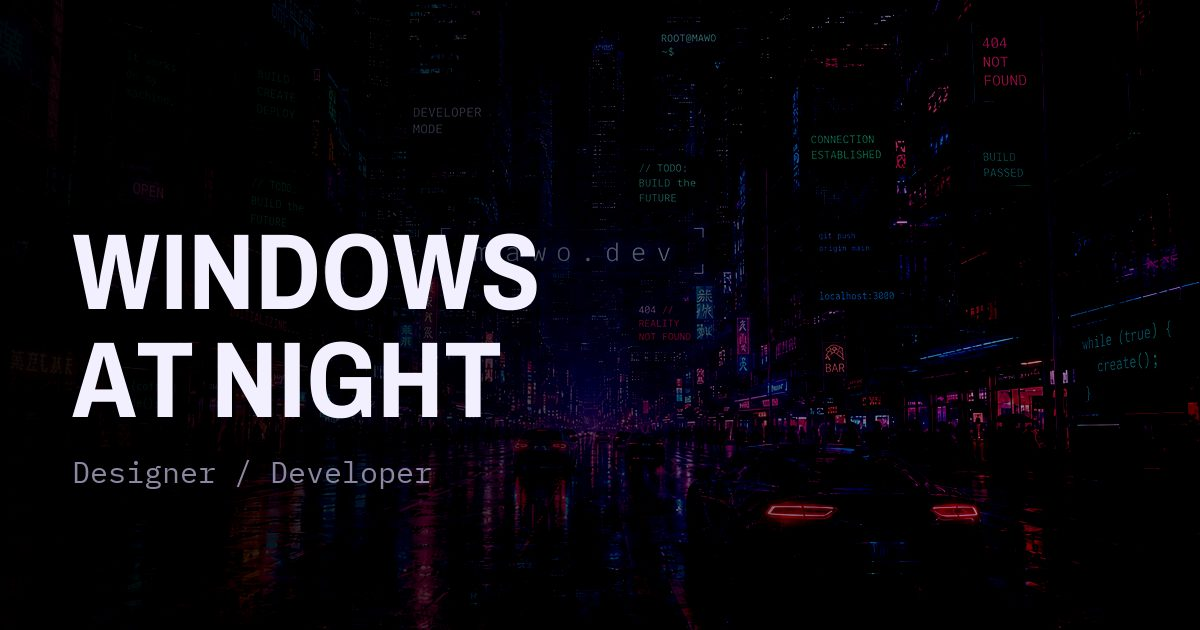
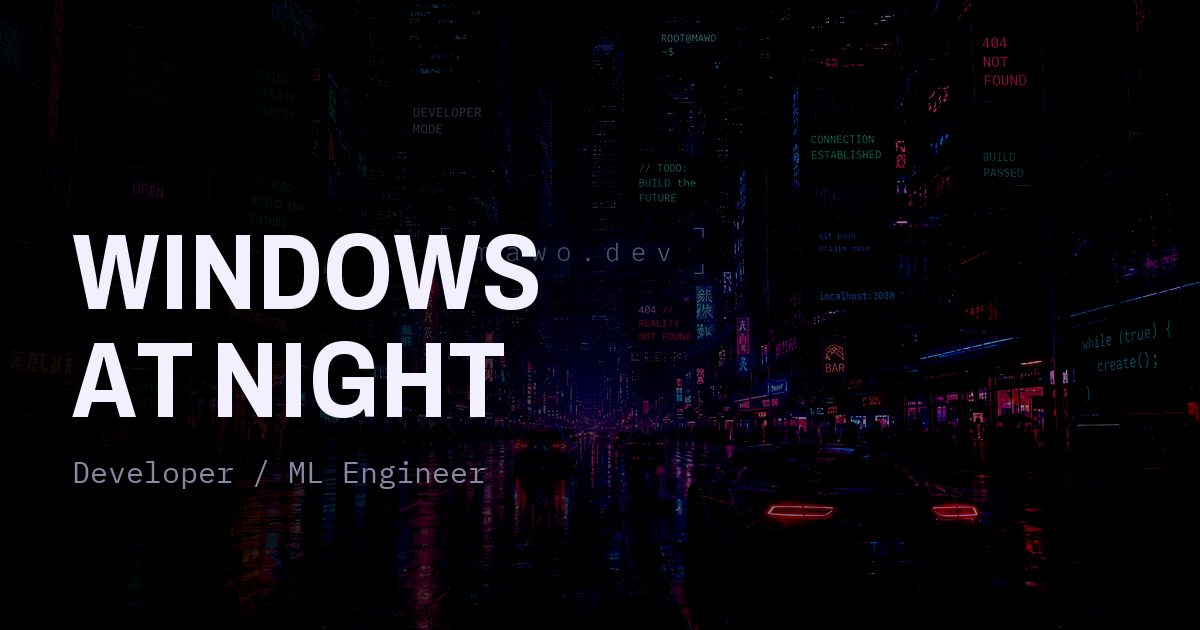
content: 肩書きを Developer / ML Engineer に変更
ヒーロー・プロフィール・OG画像の3箇所に同じ文字列が入っているので揃えて
差し替える。public/og.jpg は文字を焼き込んでいるため再生成した。

再生成にあたり Archivo の上流が更新されており、見出しの字形が
サブピクセル単位でずれる差分も含まれる（見た目の変化はない）。

diff --git a/scripts/gen-og-image.py b/scripts/gen-og-image.py
@@ -96,7 +96,7 @@ def main() -> None:
     x = 72
     draw.text((x, 214), "WINDOWS", font=title, fill=C_FLUORESCENT)
     draw.text((x, 322), "AT NIGHT", font=title, fill=C_FLUORESCENT)
-    draw.text((x, 452), "Designer / Developer", font=mono, fill=C_DUST)
+    draw.text((x, 452), "Developer / ML Engineer", font=mono, fill=C_DUST)
 
     # 中身は写真なので JPEG。PNG だと同じ絵で4倍以上重くなる。
     out = ROOT / "public" / "og.jpg"
